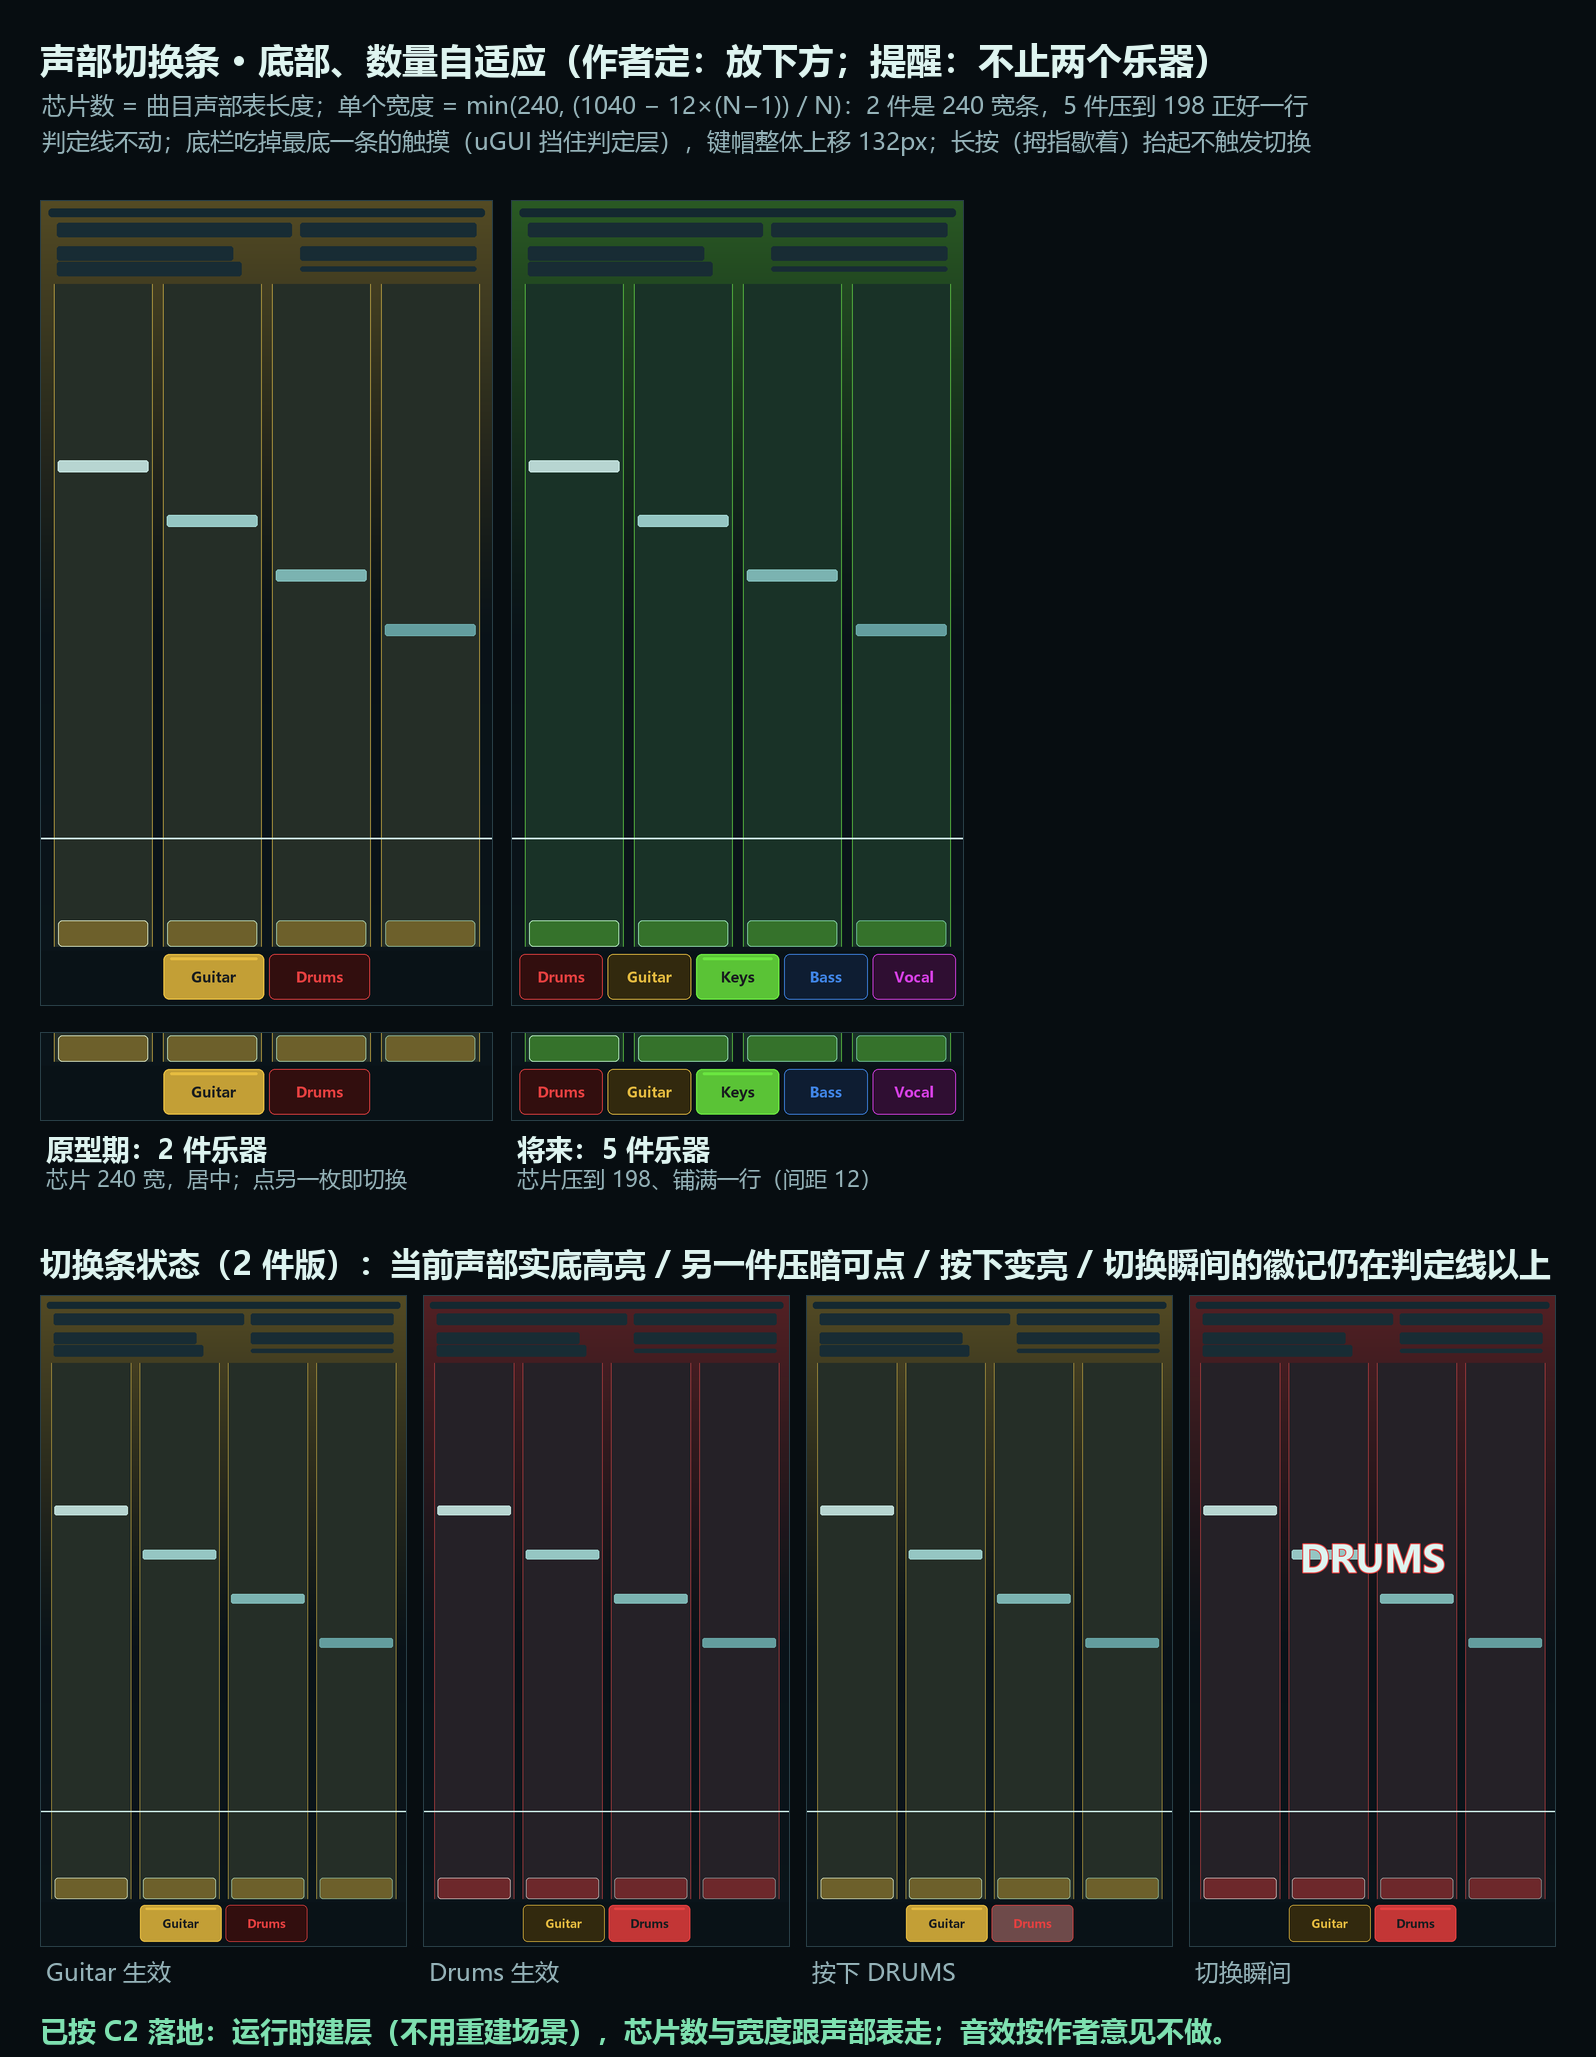
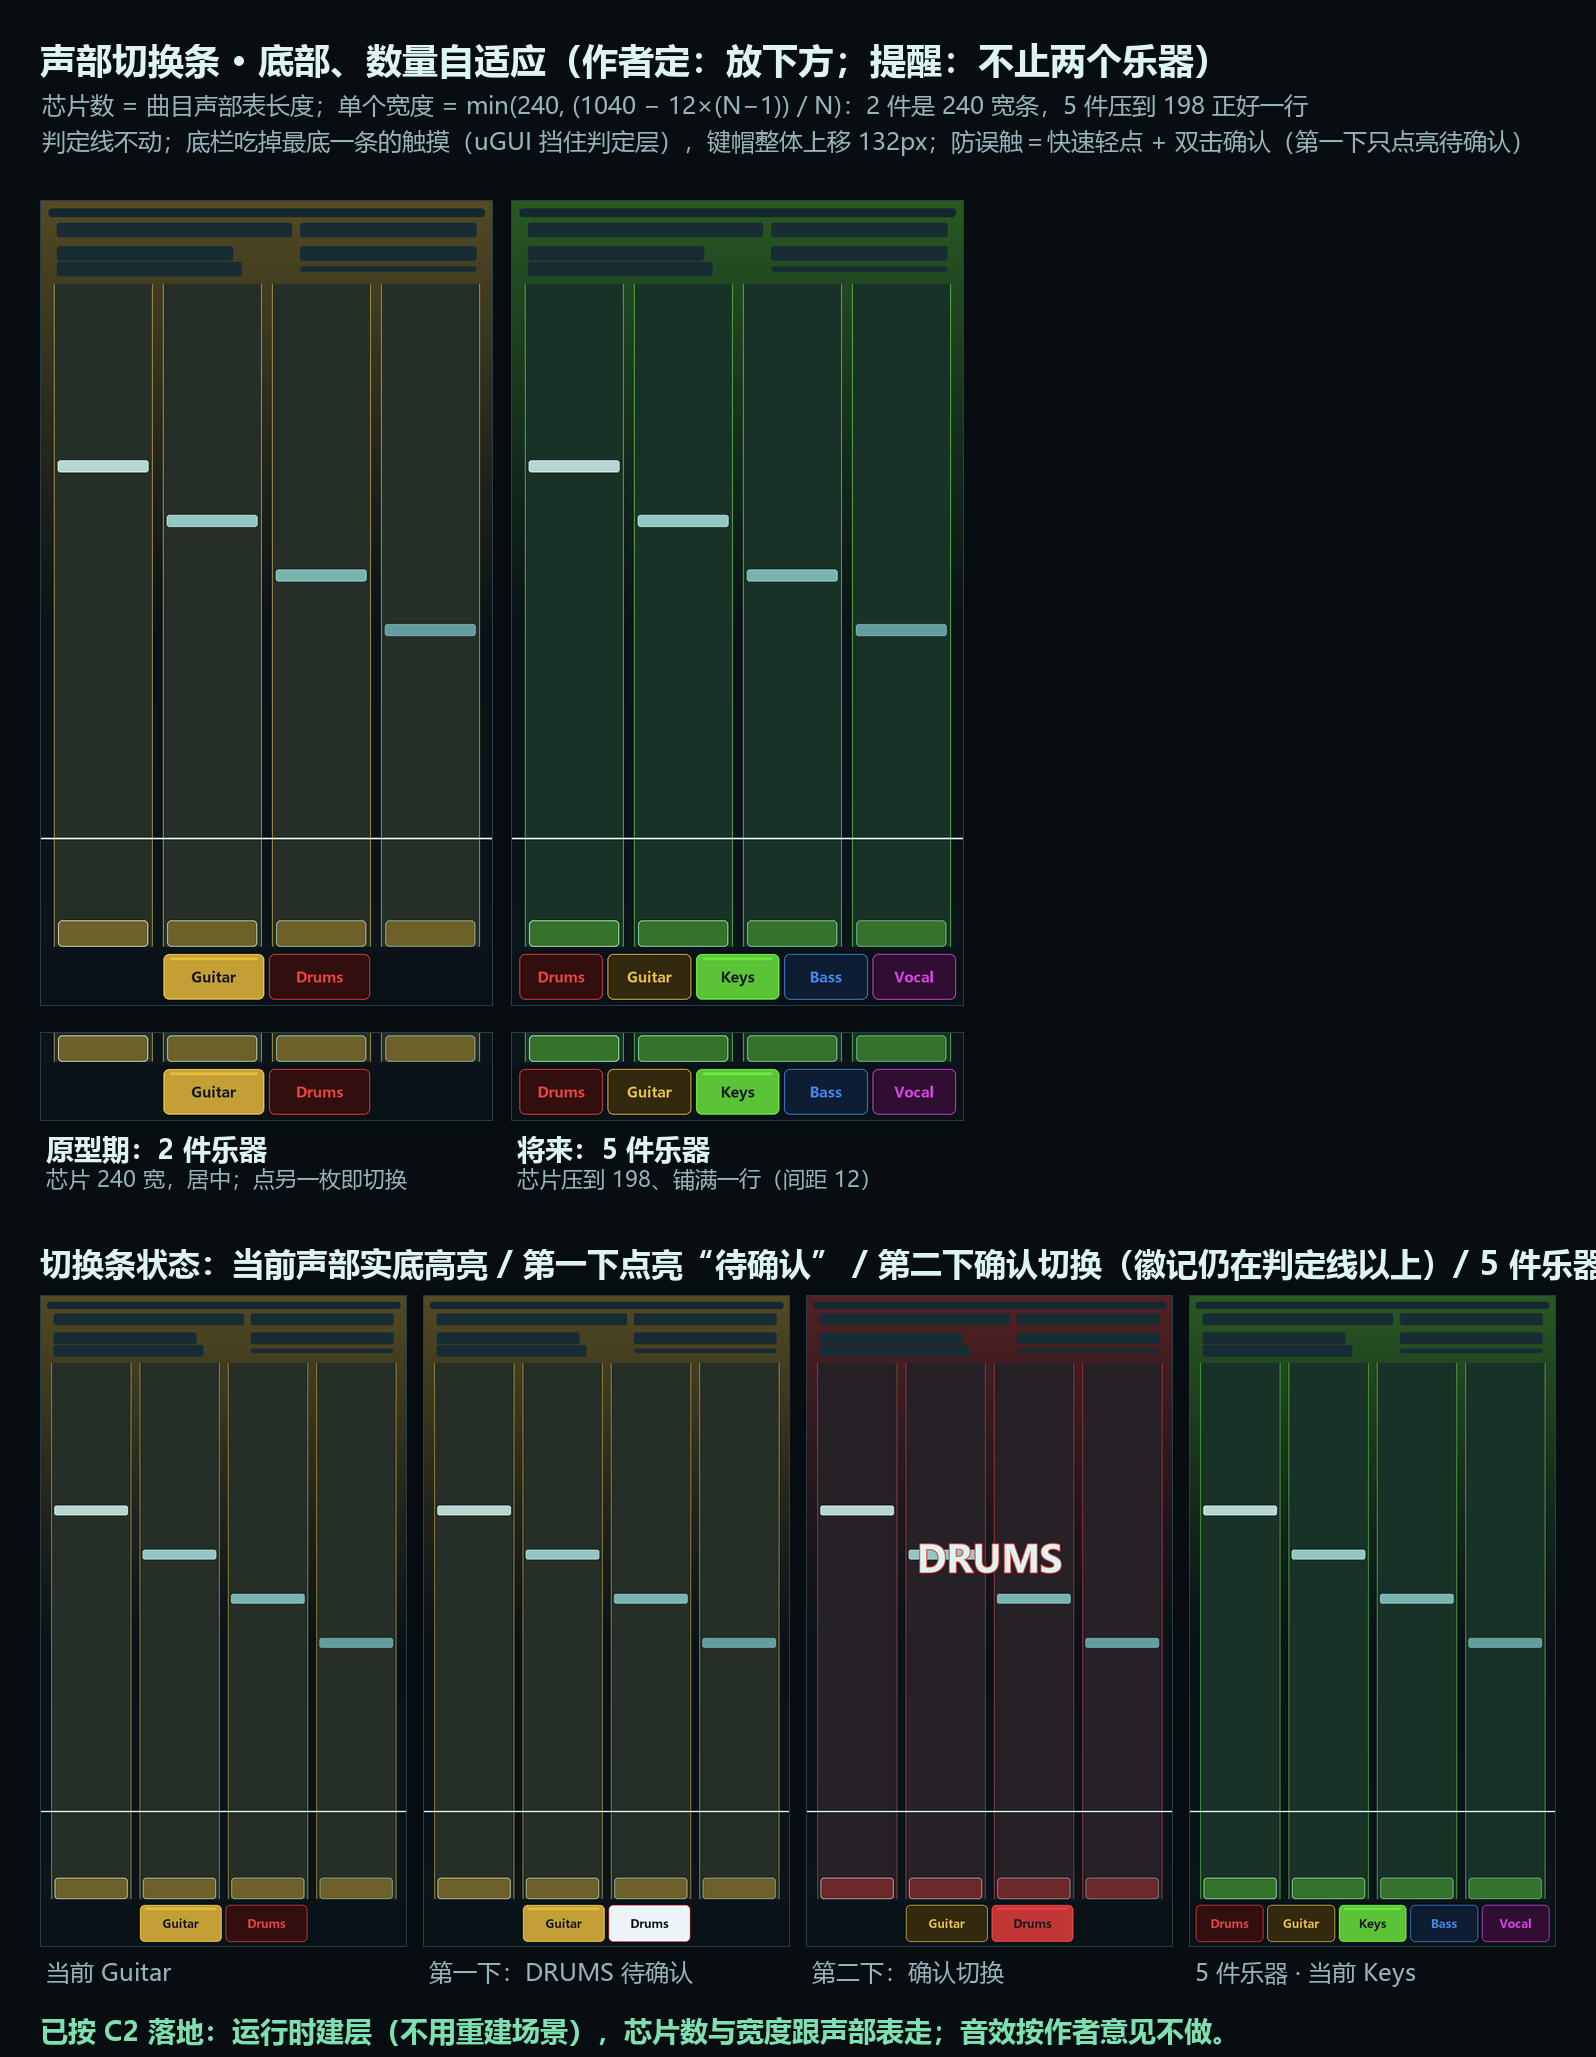
art(part): 切换条过稿稿同步双击确认与三件乐器状态

diff --git a/art_tools/live_port/preview_part_switch_button_bottom.py b/art_tools/live_port/preview_part_switch_button_bottom.py
@@ -14,7 +14,8 @@
   · 判定线（屏幕 y=1520）不动，音符判定与下落不受影响；
   · 底栏高 132，吃掉屏幕最底一条的触摸（判定层用 IsPointerOverUI 挡），所以那段不再是轨道输入区；
   · 键帽（KeyArea）在运行时整体上移 132，让"看得见的轨道"停在底栏之上；
-  · 防误触：只有"按下→抬起都在同一枚芯片内、且按下 ≤0.4s"才算切换 —— 拇指歇在屏幕上抬起不会换声部。
+  · 防误触两层：① 只有"按下→抬起都在同一枚芯片内、且按下 ≤0.4s"才算一次点击（拇指歇着抬起不算）；
+    ② 点击本身还要**双击确认**（0.5s 内连点同一枚）——第一下只点亮成"待确认"，第二下才换声部。
 
 输出（art_tools/review/part_switch/）：
   part_switch_button_bottom.png  2 件 / 5 件两条整屏对照 + 底栏放大 + 切换条状态
@@ -125,7 +126,7 @@ def draw_field(img, color):
     d.line([(0, JUDGE_SCREEN_Y), (W, JUDGE_SCREEN_Y)], fill=JUDGE, width=4)
 
 
-def draw_switch_bar(img, parts, active, pressed=None):
+def draw_switch_bar(img, parts, active, pressed=None, armed=None):
     """与 PartSwitchBar 同一套算法：芯片居中、宽度 min(240, (1040−12(N−1))/N)。"""
     d = ImageDraw.Draw(img, "RGBA")
     d.rectangle([0, BAR_TOP, W, H], fill=(9, 18, 23, 240))
@@ -141,23 +142,25 @@ def draw_switch_bar(img, parts, active, pressed=None):
             else (int(color[0] * 0.22), int(color[1] * 0.22), int(color[2] * 0.22), 255)
         if part == pressed:
             fill = (min(255, fill[0] + 60), min(255, fill[1] + 60), min(255, fill[2] + 60), 255)
+        if part == armed:
+            fill = (235, 245, 248, 255)          # 待确认：提亮成白
         rounded(d, [x0, y0, x0 + cw, y0 + CHIP_H], 14, fill=fill,
                 outline=color + (255,), width=3 if is_active else 2)
         f = font(34, True)
         tw = d.textlength(part, font=f)
-        text_color = (24, 28, 30, 255) if is_active else color + (235,)
+        text_color = (24, 28, 30, 255) if (is_active or part == armed) else color + (235,)
         d.text((x0 + cw / 2 - tw / 2, y0 + CHIP_H / 2 - 22), part, font=f, fill=text_color)
         if is_active:
             rounded(d, [x0 + 16, y0 + 8, x0 + cw - 16, y0 + 14], 3, fill=color + (255,))
 
 
-def mock(parts, active, pressed=None, badge=False):
+def mock(parts, active, pressed=None, armed=None, badge=False):
     img = Image.new("RGB", (W, H), BG_DEEP)
     color = hue_rgb(hue_of(active))
     draw_background(img, color)
     draw_hud(img)
     draw_field(img, color)
-    draw_switch_bar(img, parts, active, pressed)
+    draw_switch_bar(img, parts, active, pressed, armed)
     if badge:
         d = ImageDraw.Draw(img)
         f = font(110, True)
@@ -185,7 +188,7 @@ def main():
            font=font(36, True), fill=TEXT_BRIGHT)
     d.text((42, 88), "芯片数 = 曲目声部表长度；单个宽度 = min(240, (1040 − 12×(N−1)) / N)：2 件是 240 宽条，5 件压到 198 正好一行",
            font=font(24), fill=TEXT)
-    d.text((42, 124), "判定线不动；底栏吃掉最底一条的触摸（uGUI 挡住判定层），键帽整体上移 132px；长按（拇指歇着）抬起不触发切换",
+    d.text((42, 124), "判定线不动；底栏吃掉最底一条的触摸（uGUI 挡住判定层），键帽整体上移 132px；防误触＝快速轻点 + 双击确认（第一下只点亮待确认）",
            font=font(24), fill=TEXT)
 
     y_shot, y_bar = 200, 200 + fh + 26
@@ -203,13 +206,13 @@ def main():
         d.text((x + 6, y_bar + bar_h + 42), note, font=font(22), fill=TEXT)
 
     y_state = y_bar + bar_h + 120
-    d.text((40, y_state), "切换条状态（2 件版）：当前声部实底高亮 / 另一件压暗可点 / 按下变亮 / 切换瞬间的徽记仍在判定线以上",
+    d.text((40, y_state), "切换条状态：当前声部实底高亮 / 第一下点亮“待确认” / 第二下确认切换（徽记仍在判定线以上）/ 5 件乐器的排布",
            font=font(32, True), fill=TEXT_BRIGHT)
     y_state += 54
-    states = [("Guitar 生效", mock(DEMO_PARTS, "Guitar")),
-              ("Drums 生效", mock(DEMO_PARTS, "Drums")),
-              ("按下 DRUMS", mock(DEMO_PARTS, "Guitar", pressed="Drums")),
-              ("切换瞬间", mock(DEMO_PARTS, "Drums", badge=True))]
+    states = [("当前 Guitar", mock(DEMO_PARTS, "Guitar")),
+              ("第一下：DRUMS 待确认", mock(DEMO_PARTS, "Guitar", armed="Drums")),
+              ("第二下：确认切换", mock(DEMO_PARTS, "Drums", badge=True)),
+              ("5 件乐器 · 当前 Keys", mock(FIVE_PARTS, "Keys"))]
     for i, (label, img) in enumerate(states):
         x = 40 + i * (sw + 16)
         sheet.paste(img.resize((sw, sh), Image.LANCZOS), (x, y_state))
